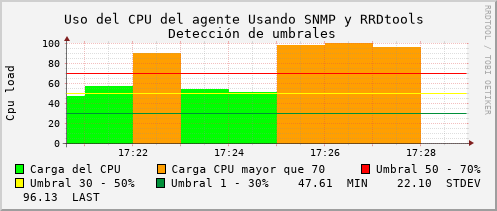
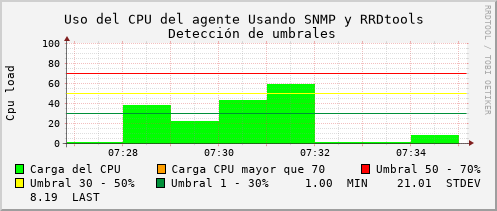
Todo funcionando correctamente

diff --git a/monitor.py b/monitor.py
@@ -4,11 +4,14 @@ import time
 import smtplib
 from email.mime.image import MIMEImage
 from email.mime.multipart import MIMEMultipart
+import os
+from reportlab.pdfgen import canvas
+from reportlab.lib.pagesizes import A4
 rrdpath = 'RRD/'
 imgpath = 'IMG/'
 fname = 'trend.rrd'
 mailsender = "testredes3@gmail.com"
-mailreceip = "perezozo79@gmail.com"
+mailreceip = "tanibet.escom@gmail.com"
 mailserver = 'smtp.gmail.com: 587'
 password = 'prueba123'
 cpu_u_1 = 30
@@ -37,6 +40,8 @@ def consultaSNMP(comunidad,host,oid):
         for varBind in varBinds:
             varB=(' = '.join([x.prettyPrint() for x in varBind]))
             resultado= varB.split()[2]
+            if((len(varB.split("Software")) > 1) | (resultado == 'Linux')):
+                resultado = varB.split("=")[1]
     return resultado
 def createRRD():
     ret = rrdtool.create(rrdpath+"trend.rrd",
@@ -153,8 +158,34 @@ def notify(file,subject):
     s.login(mailsender, password)
 
     s.sendmail(mailsender, mailreceip, msg.as_string())
+    s.sendmail(mailsender, 'noepfab@gmail.com', msg.as_string())
     s.quit()
-
+def generarReporte(name):
+    res = consultaSNMP('home','192.168.3.26',"1.3.6.1.2.1.1.1.0")
+    if(len(res.split("Software")) > 1):
+        sistema = res.split("Software")[1].split(" ")[1]
+        version = res.split("Software")[1].split(" ")[3]
+    else:
+        sistema = res.split(" ")[1]
+        version = res.split(" ")[3]
+    ubicacion = consultaSNMP('home','192.168.3.26',"1.3.6.1.2.1.1.6.0")
+    tiempo = consultaSNMP('home','192.168.3.26',"1.3.6.1.2.1.1.3.0")
+    tiempo ="{0:.2f}".format(((int(tiempo)*0.01)/60)/60)
+    ip = '192.168.3.26'
+    c = canvas.Canvas("reportes/"+name+".pdf",pagesize=A4)
+    w, h = A4
+    if(sistema == "Linux"):
+        c.drawImage("IMG/linux.jpg",10,h-60,width=50,height=50)
+    else:
+        c.drawImage("IMG/windows.jpeg",10,h-60,width=50,height=50)
+    c.setFont("Helvetica", 10)
+    c.drawString(65, h-25, "SO: "+sistema+"  Version: "+version+"  Ubicacion: "+ubicacion)
+    c.drawString(65, h-50, "Tiempo de actividad antes del ultimo reinicio: "+tiempo+"hrs  Comunidad: "+'home'+' IP: '+ip)
+    c.line(0,h-65,w,h-65)
+    c.drawImage("IMG/cpu.png",10,h-185,width=w-20,height=110)
+    c.drawImage("IMG/disk.png",10,h-305,width=w-20,height=110)
+    c.drawImage("IMG/ram.png",10,h-425,width=w-20,height=110)
+    c.save()
 def capturar():
     carga_CPU = int(consultaSNMP('home','192.168.3.26','1.3.6.1.2.1.25.3.3.1.2.196608'))
     
@@ -162,8 +193,8 @@ def capturar():
     ram_used = int(consultaSNMP('home','192.168.3.26','1.3.6.1.4.1.2021.4.11.0'))
     ram_p = 100-(ram_used*100)/ram_total
     
-    disk_total = int(consultaSNMP('home','192.168.3.26','1.3.6.1.2.1.25.2.3.1.5.1'))
-    disk_used = int(consultaSNMP('home','192.168.3.26','1.3.6.1.2.1.25.2.3.1.6.1'))
+    disk_total = int(consultaSNMP('home','192.168.3.26','1.3.6.1.2.1.25.2.3.1.5.3'))
+    disk_used = int(consultaSNMP('home','192.168.3.26','1.3.6.1.2.1.25.2.3.1.6.3'))
     disk_p = (disk_used*100)/disk_total
     
     #print("RAM TOTAL: "+str(ram_total)+"/nRAM USED: "+str(ram_used))
@@ -174,55 +205,82 @@ def capturar():
     if(carga_CPU >= cpu_u_1):
         if(not flags[0]):
             graph(1,int(rrdtool.last(rrdpath+"trend.rrd"))-500,int(rrdtool.last(rrdpath+"trend.rrd")))
+            graph(2,int(rrdtool.last(rrdpath+"trend.rrd"))-500,int(rrdtool.last(rrdpath+"trend.rrd")))
+            graph(3,int(rrdtool.last(rrdpath+"trend.rrd"))-500,int(rrdtool.last(rrdpath+"trend.rrd")))
             notify('cpu.png',"Primer umbral de uso de CPU superado")
+            generarReporte('cpu')
             flags[0] = True
             print('Primer umbral de uso de CPU superado')
     if(carga_CPU >= cpu_u_2):
         if(not flags[1]):
             graph(1,int(rrdtool.last(rrdpath+"trend.rrd"))-500,int(rrdtool.last(rrdpath+"trend.rrd")))
+            graph(2,int(rrdtool.last(rrdpath+"trend.rrd"))-500,int(rrdtool.last(rrdpath+"trend.rrd")))
+            graph(3,int(rrdtool.last(rrdpath+"trend.rrd"))-500,int(rrdtool.last(rrdpath+"trend.rrd")))
             notify('cpu.png',"Segundo umbral de uso de CPU superado")
+            generarReporte('cpu')
             flags[1] = True
             print('Segundo umbral de uso de CPU superado')
     if(carga_CPU >= cpu_u_3):
         if(not flags[2]):
             graph(1,int(rrdtool.last(rrdpath+"trend.rrd"))-500,int(rrdtool.last(rrdpath+"trend.rrd")))
+            graph(2,int(rrdtool.last(rrdpath+"trend.rrd"))-500,int(rrdtool.last(rrdpath+"trend.rrd")))
+            graph(3,int(rrdtool.last(rrdpath+"trend.rrd"))-500,int(rrdtool.last(rrdpath+"trend.rrd")))
             notify('cpu.png',"Terccer umbral de uso de CPU superado")
+            generarReporte('cpu')
             flags[2] = True
             print('Tercer umbral de uso de CPU superado')
     if(ram_p >= ram_u_1):
         if(not flags[3]):
+            graph(1,int(rrdtool.last(rrdpath+"trend.rrd"))-500,int(rrdtool.last(rrdpath+"trend.rrd")))
             graph(2,int(rrdtool.last(rrdpath+"trend.rrd"))-500,int(rrdtool.last(rrdpath+"trend.rrd")))
+            graph(3,int(rrdtool.last(rrdpath+"trend.rrd"))-500,int(rrdtool.last(rrdpath+"trend.rrd")))
             notify('ram.png',"Primer umbral de uso de RAM superado")
+            generarReporte('ram')
             flags[3] = True
             print('Primer umbral de uso de RAM superado')
     if(ram_p >= ram_u_2):
         if(not flags[4]):
+            graph(1,int(rrdtool.last(rrdpath+"trend.rrd"))-500,int(rrdtool.last(rrdpath+"trend.rrd")))
             graph(2,int(rrdtool.last(rrdpath+"trend.rrd"))-500,int(rrdtool.last(rrdpath+"trend.rrd")))
+            graph(3,int(rrdtool.last(rrdpath+"trend.rrd"))-500,int(rrdtool.last(rrdpath+"trend.rrd")))
             notify('ram.png',"Segundo umbral de uso de RAM superado")
+            generarReporte('ram')
             flags[4] = True
             print('Segundo umbral de uso de RAM superado')
     if(ram_p >= ram_u_3):
         if(not flags[5]):
+            graph(1,int(rrdtool.last(rrdpath+"trend.rrd"))-500,int(rrdtool.last(rrdpath+"trend.rrd")))
             graph(2,int(rrdtool.last(rrdpath+"trend.rrd"))-500,int(rrdtool.last(rrdpath+"trend.rrd")))
+            graph(3,int(rrdtool.last(rrdpath+"trend.rrd"))-500,int(rrdtool.last(rrdpath+"trend.rrd")))
             notify('ram.png',"Tercer umbral de uso de RAM superado")
+            generarReporte('ram')
             flags[5] = True
             print('Tercer umbral de uso de RAM superado')
     if(disk_p >= disk_u_1):
         if(not flags[6]):
+            graph(1,int(rrdtool.last(rrdpath+"trend.rrd"))-500,int(rrdtool.last(rrdpath+"trend.rrd")))
+            graph(2,int(rrdtool.last(rrdpath+"trend.rrd"))-500,int(rrdtool.last(rrdpath+"trend.rrd")))
             graph(3,int(rrdtool.last(rrdpath+"trend.rrd"))-500,int(rrdtool.last(rrdpath+"trend.rrd")))
             notify('disk.png',"Primer umbral de uso de Disco superado")
+            generarReporte('disk')
             flags[6] = True
             print('Primer umbral de uso de Disco superado')
     if(disk_p >= disk_u_2):
         if(not flags[7]):
+            graph(1,int(rrdtool.last(rrdpath+"trend.rrd"))-500,int(rrdtool.last(rrdpath+"trend.rrd")))
+            graph(2,int(rrdtool.last(rrdpath+"trend.rrd"))-500,int(rrdtool.last(rrdpath+"trend.rrd")))
             graph(3,int(rrdtool.last(rrdpath+"trend.rrd"))-500,int(rrdtool.last(rrdpath+"trend.rrd")))
             notify('disk.png',"Segundo umbral de uso de Disco superado")
+            generarReporte('disk')
             flags[7] = True
             print('Segundo umbral de uso de Disco superado')
     if(not disk_p >= disk_u_3):
         if(flags[8]):
+            graph(1,int(rrdtool.last(rrdpath+"trend.rrd"))-500,int(rrdtool.last(rrdpath+"trend.rrd")))
+            graph(2,int(rrdtool.last(rrdpath+"trend.rrd"))-500,int(rrdtool.last(rrdpath+"trend.rrd")))
             graph(3,int(rrdtool.last(rrdpath+"trend.rrd"))-500,int(rrdtool.last(rrdpath+"trend.rrd")))
             notify('disk.png',"Tercer umbral de uso de Disco superado")
+            generarReporte('disk')
             flags[8] = True
             print('Tercer umbral de uso de Disco superado')
     time.sleep(1)
